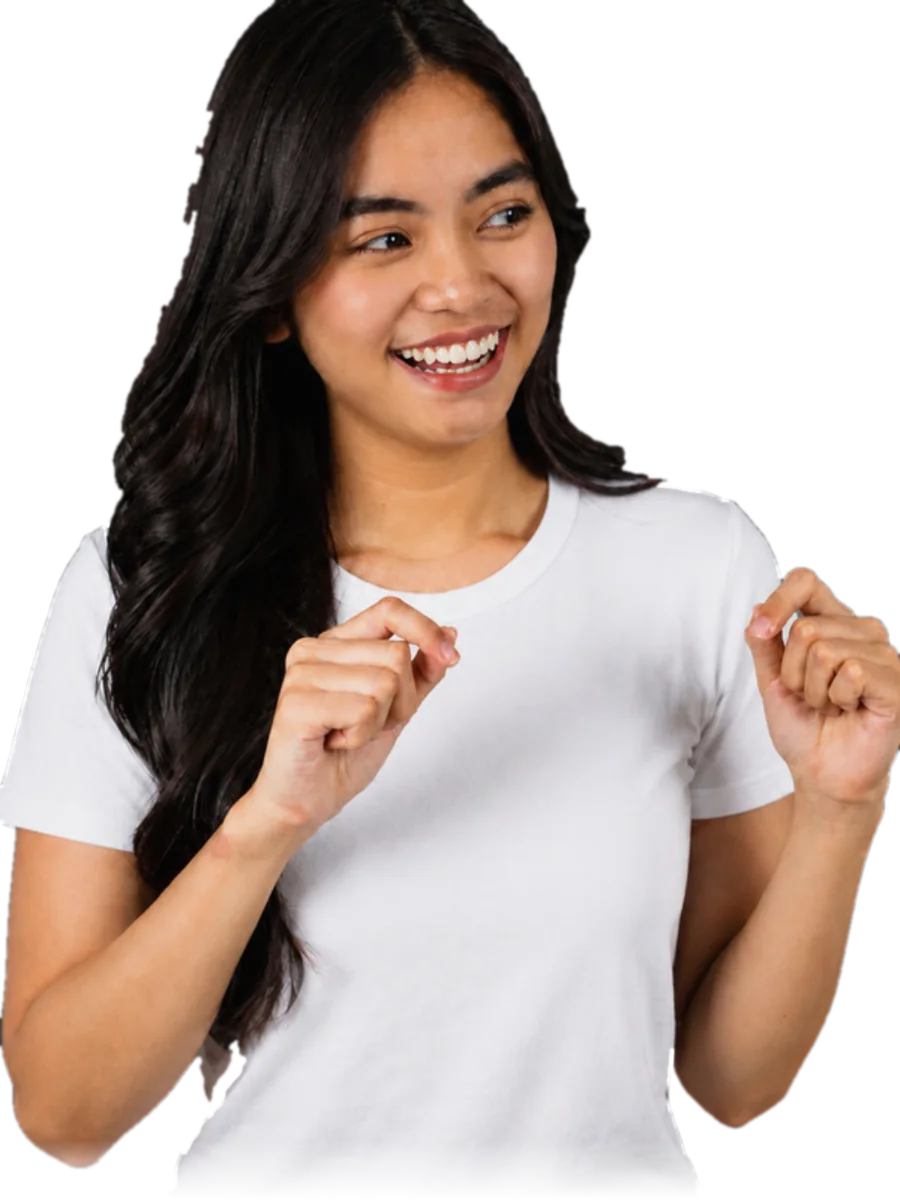
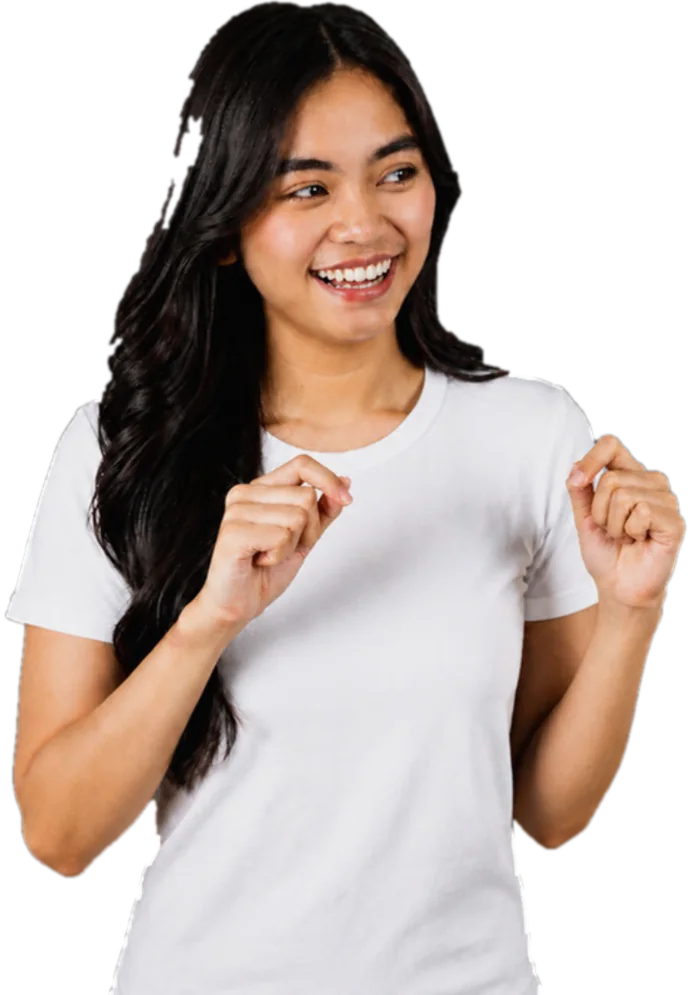
Services panels aligned to the page; bigger people with a sharp cut
- Panel content lines up with the 1180px page column (text further
  right, app window further left).
- People larger and cut sharply exactly on each panel's bottom edge;
  bottom fades removed from all cut-outs.
- Content creator regenerated fully in frame.

Claude-Session: https://claude.ai/code/session_01WxiEpBbYd9knDzcaHARf4X

diff --git a/index.html b/index.html
@@ -320,7 +320,7 @@ nav .nav-cta:hover,nav .nav-cta[aria-current="page"]{color:var(--navy);backgroun
 @keyframes turn{to{transform:rotate(360deg)}}
 
 /* ---------- SERVICE PANELS ---------- */
-.sp{display:grid;grid-template-columns:minmax(0,.9fr) minmax(0,1.1fr);gap:clamp(28px,4vw,56px);align-items:center;padding:clamp(28px,5vw,64px)}
+.sp{display:grid;grid-template-columns:minmax(0,.9fr) minmax(0,1.1fr);gap:clamp(28px,4vw,56px);align-items:center;--pb:clamp(28px,5vw,64px);padding:var(--pb) max(var(--pb),calc((100% - 1180px)/2))}
 @media (max-width:900px){.sp{grid-template-columns:1fr}}
 .sp.light{background:var(--surface);box-shadow:0 1px 0 var(--line)}
 .sp.dark{background:var(--forest);color:var(--on-forest)}
@@ -399,19 +399,21 @@ nav .nav-cta:hover,nav .nav-cta[aria-current="page"]{color:var(--navy);backgroun
 .sp ul.inc li i{width:22px;height:22px;border-radius:50%;background:var(--sage);color:var(--forest);display:grid;place-items:center;flex:none;margin-top:2px}
 .sp ul.inc svg{width:12px;height:12px;fill:none;stroke:currentColor;stroke-width:3.2;stroke-linecap:round;stroke-linejoin:round}
 @media (max-width:700px){nav a .hm{display:none}}
-.mockwrap.has-person{padding-top:clamp(40px,6vw,90px)}
-.sv-person{position:absolute;z-index:3;bottom:-4px;height:clamp(220px,26vw,330px);width:auto;max-width:none;pointer-events:none;-webkit-mask-image:linear-gradient(0deg,transparent,#000 10%);mask-image:linear-gradient(0deg,transparent,#000 10%)}
+.mockwrap.has-person{padding-top:clamp(40px,6vw,90px);align-self:end}
+.sp:has(.has-person){align-items:end}
+.sp:has(.has-person)>div:first-child{align-self:center}
+.sv-person{position:absolute;z-index:3;bottom:calc(-1 * var(--pb));height:clamp(300px,34vw,470px);width:auto;max-width:none;pointer-events:none}
 .has-person.r .sv-person{right:-1%}
 .has-person.l .sv-person{left:-1%}
 .has-person .mock{position:relative;z-index:1}
-.has-person.r .mock{margin-right:22%}
+.has-person.r .mock{margin-right:30%}
 .mockwrap .mock-chip{z-index:4}
 .has-person.l .mock-chip{left:auto!important;right:-12px!important;bottom:-18px!important;top:auto!important}
 .has-person.r .mock-chip{right:auto!important;left:-12px!important;top:auto!important;bottom:-18px!important}
 @media (max-width:900px){.has-person.l .mock-chip,.has-person.r .mock-chip{left:auto!important;right:8px!important}}
 .has-person .cal .post em{font-size:0;width:12px;height:12px;padding:0}
-.has-person.l .mock{margin-left:22%}
-@media (max-width:900px){.sv-person{top:0;bottom:auto;height:190px}.has-person.r .mock,.has-person.l .mock{margin:0}.has-person.r .sv-person{right:8px}.has-person.l .sv-person{left:8px}.mockwrap.has-person{padding-top:180px}}
+.has-person.l .mock{margin-left:30%}
+@media (max-width:900px){.sv-person{top:0;bottom:auto;height:210px}.has-person.r .mock,.has-person.l .mock{margin:0}.has-person.r .sv-person{right:8px}.has-person.l .sv-person{left:8px}.mockwrap.has-person{padding-top:180px}}
 /* ---------- CALL PANEL ---------- */
 .call{background:var(--leaf-soft);display:grid;grid-template-columns:minmax(0,.85fr) minmax(0,1.15fr);gap:clamp(24px,4vw,48px);align-items:center;padding:clamp(24px,4vw,56px)}
 @media (max-width:900px){.call{grid-template-columns:1fr}}
@@ -553,7 +555,7 @@ nav .nav-cta:hover,nav .nav-cta[aria-current="page"]{color:var(--navy);backgroun
 .rolewall{display:flex;flex-wrap:wrap;justify-content:center;gap:clamp(8px,2vw,24px);margin-top:12px}
 .rp{position:relative;flex:0 1 360px;aspect-ratio:1/1;max-width:100%}
 .rp-blob{position:absolute;z-index:0;left:6%;right:6%;bottom:6%;height:46%;border-radius:999px;background:radial-gradient(closest-side,rgba(201,221,180,.55),rgba(201,221,180,.18) 70%,transparent 100%)}
-.rp-person{position:absolute;z-index:1;bottom:0;height:100%;width:auto;max-width:none;-webkit-mask-image:linear-gradient(0deg,transparent,#000 7%);mask-image:linear-gradient(0deg,transparent,#000 7%)}
+.rp-person{position:absolute;z-index:1;bottom:0;height:100%;width:auto;max-width:none}
 .rp.left .rp-person{left:2%}
 .rp.right .rp-person{right:2%}
 .rcard{position:absolute;z-index:2;top:30%;width:min(62%,230px);display:grid;gap:6px;padding:14px 16px;border-radius:16px;text-decoration:none;color:#1C2740;
